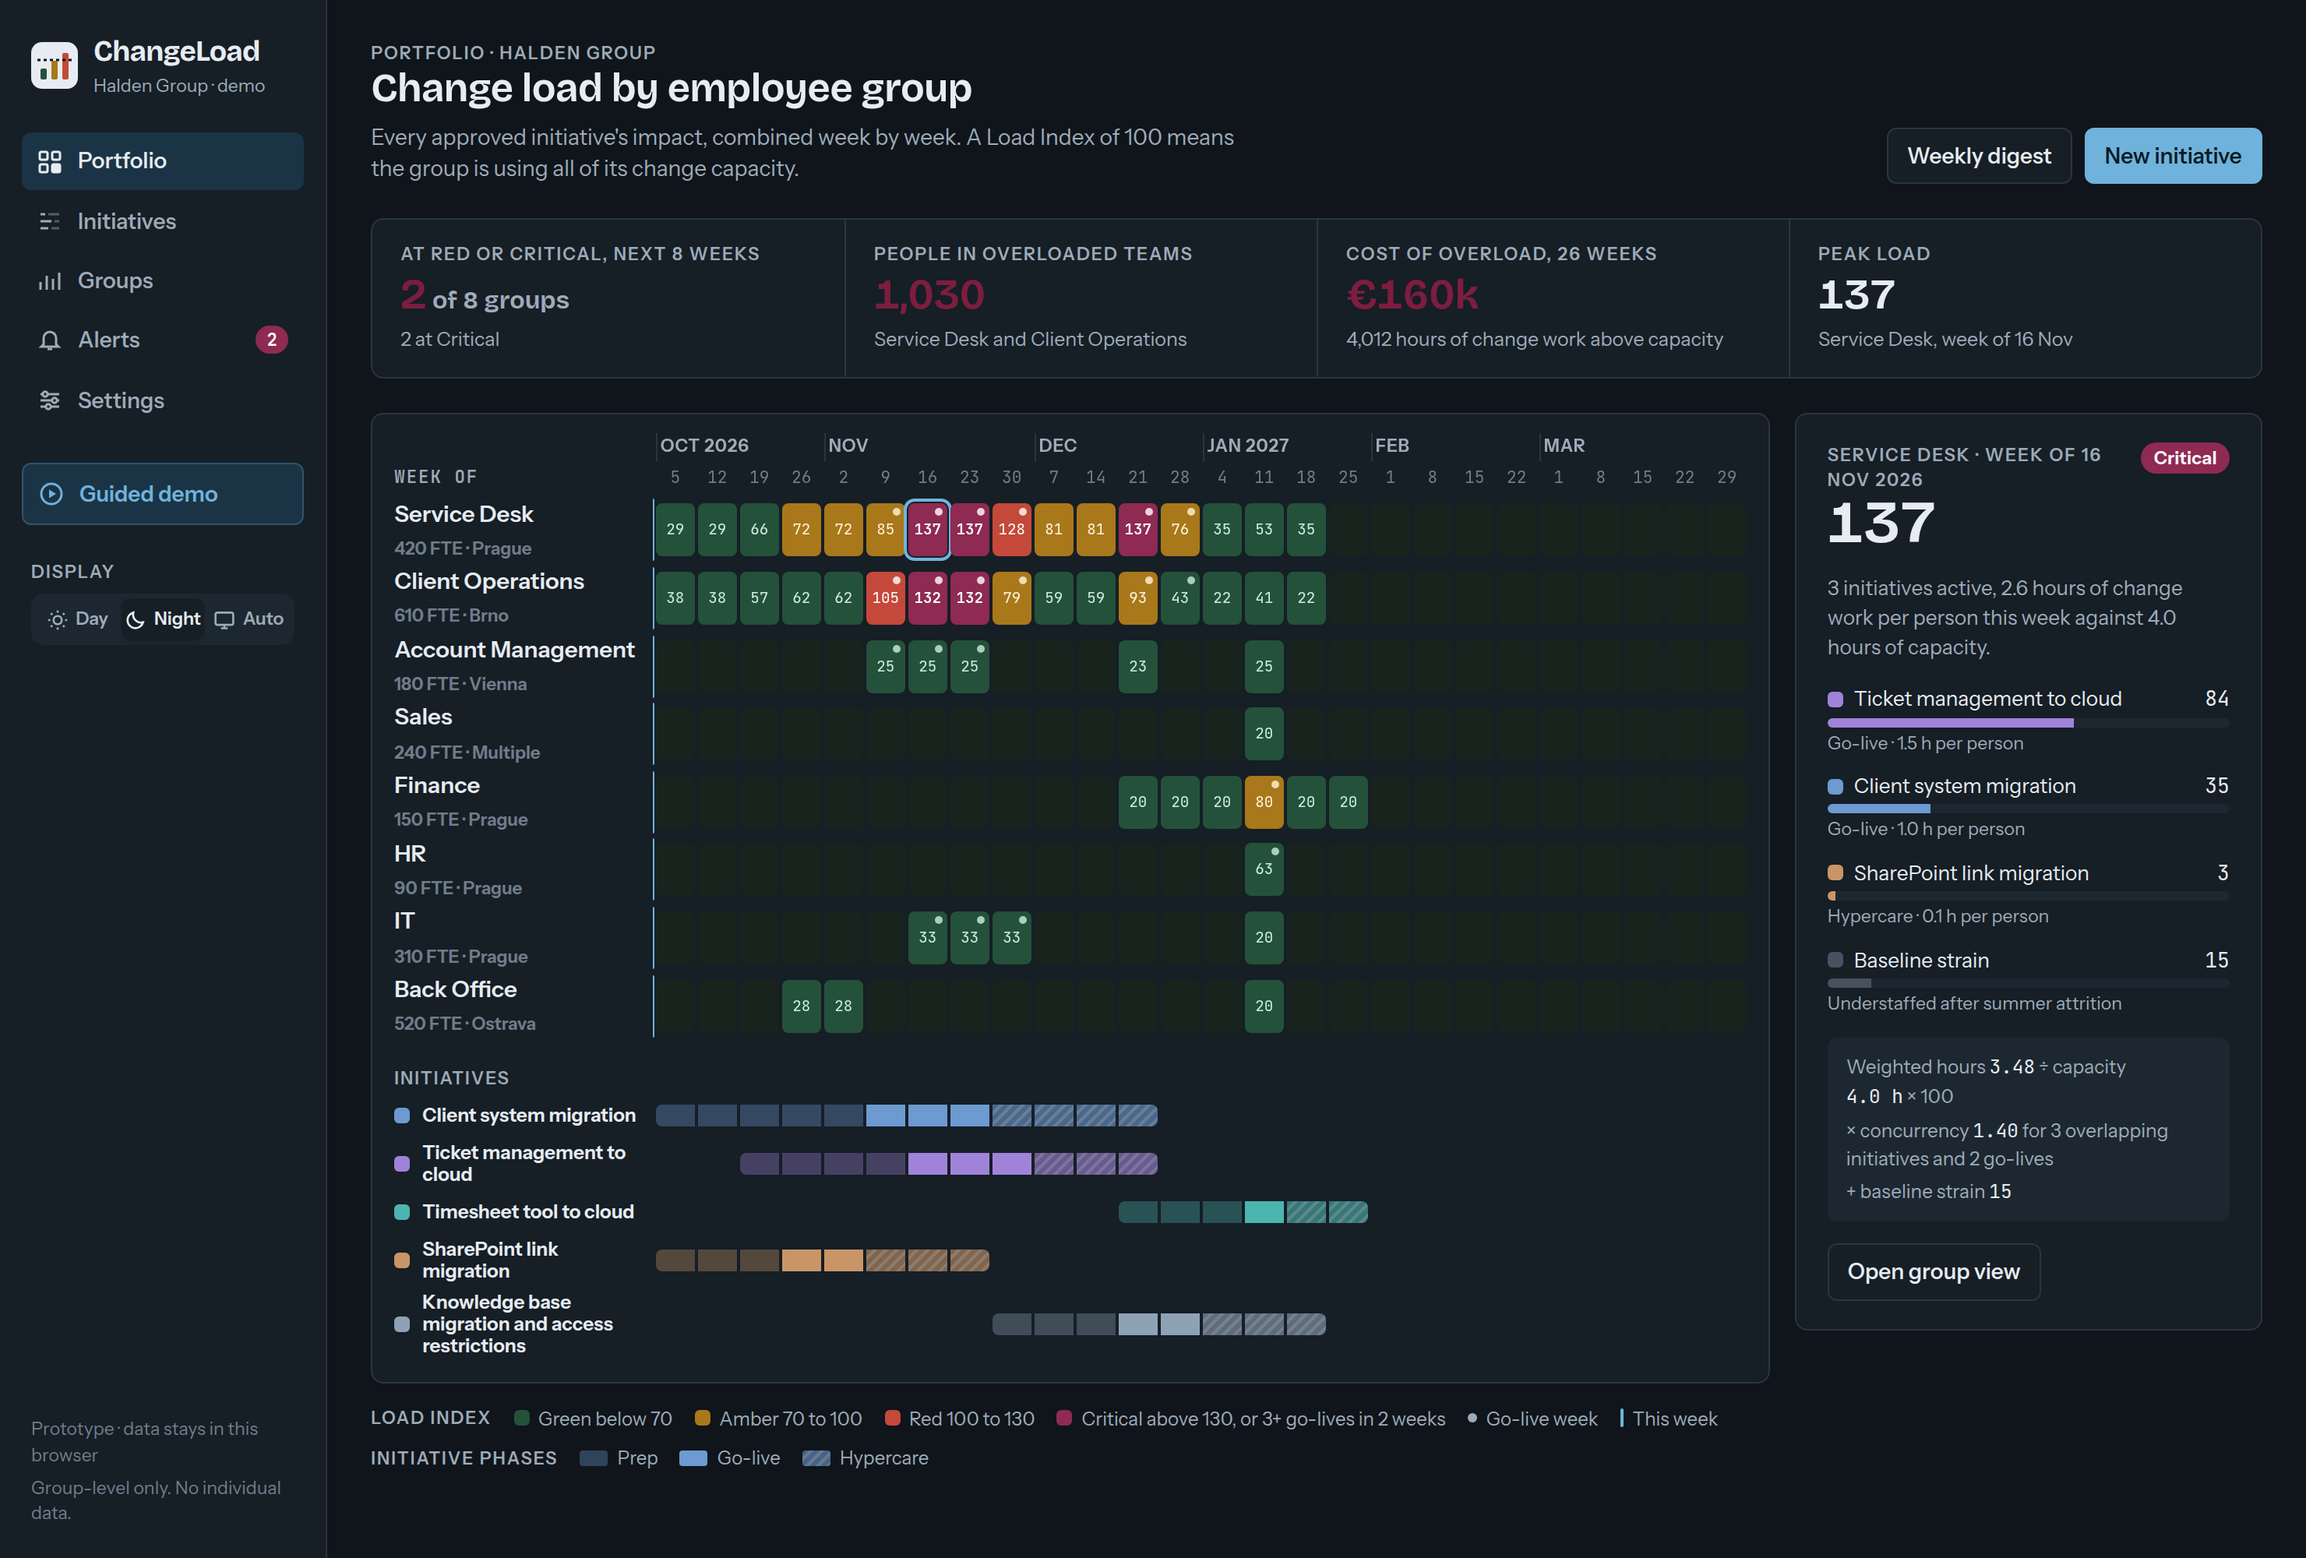
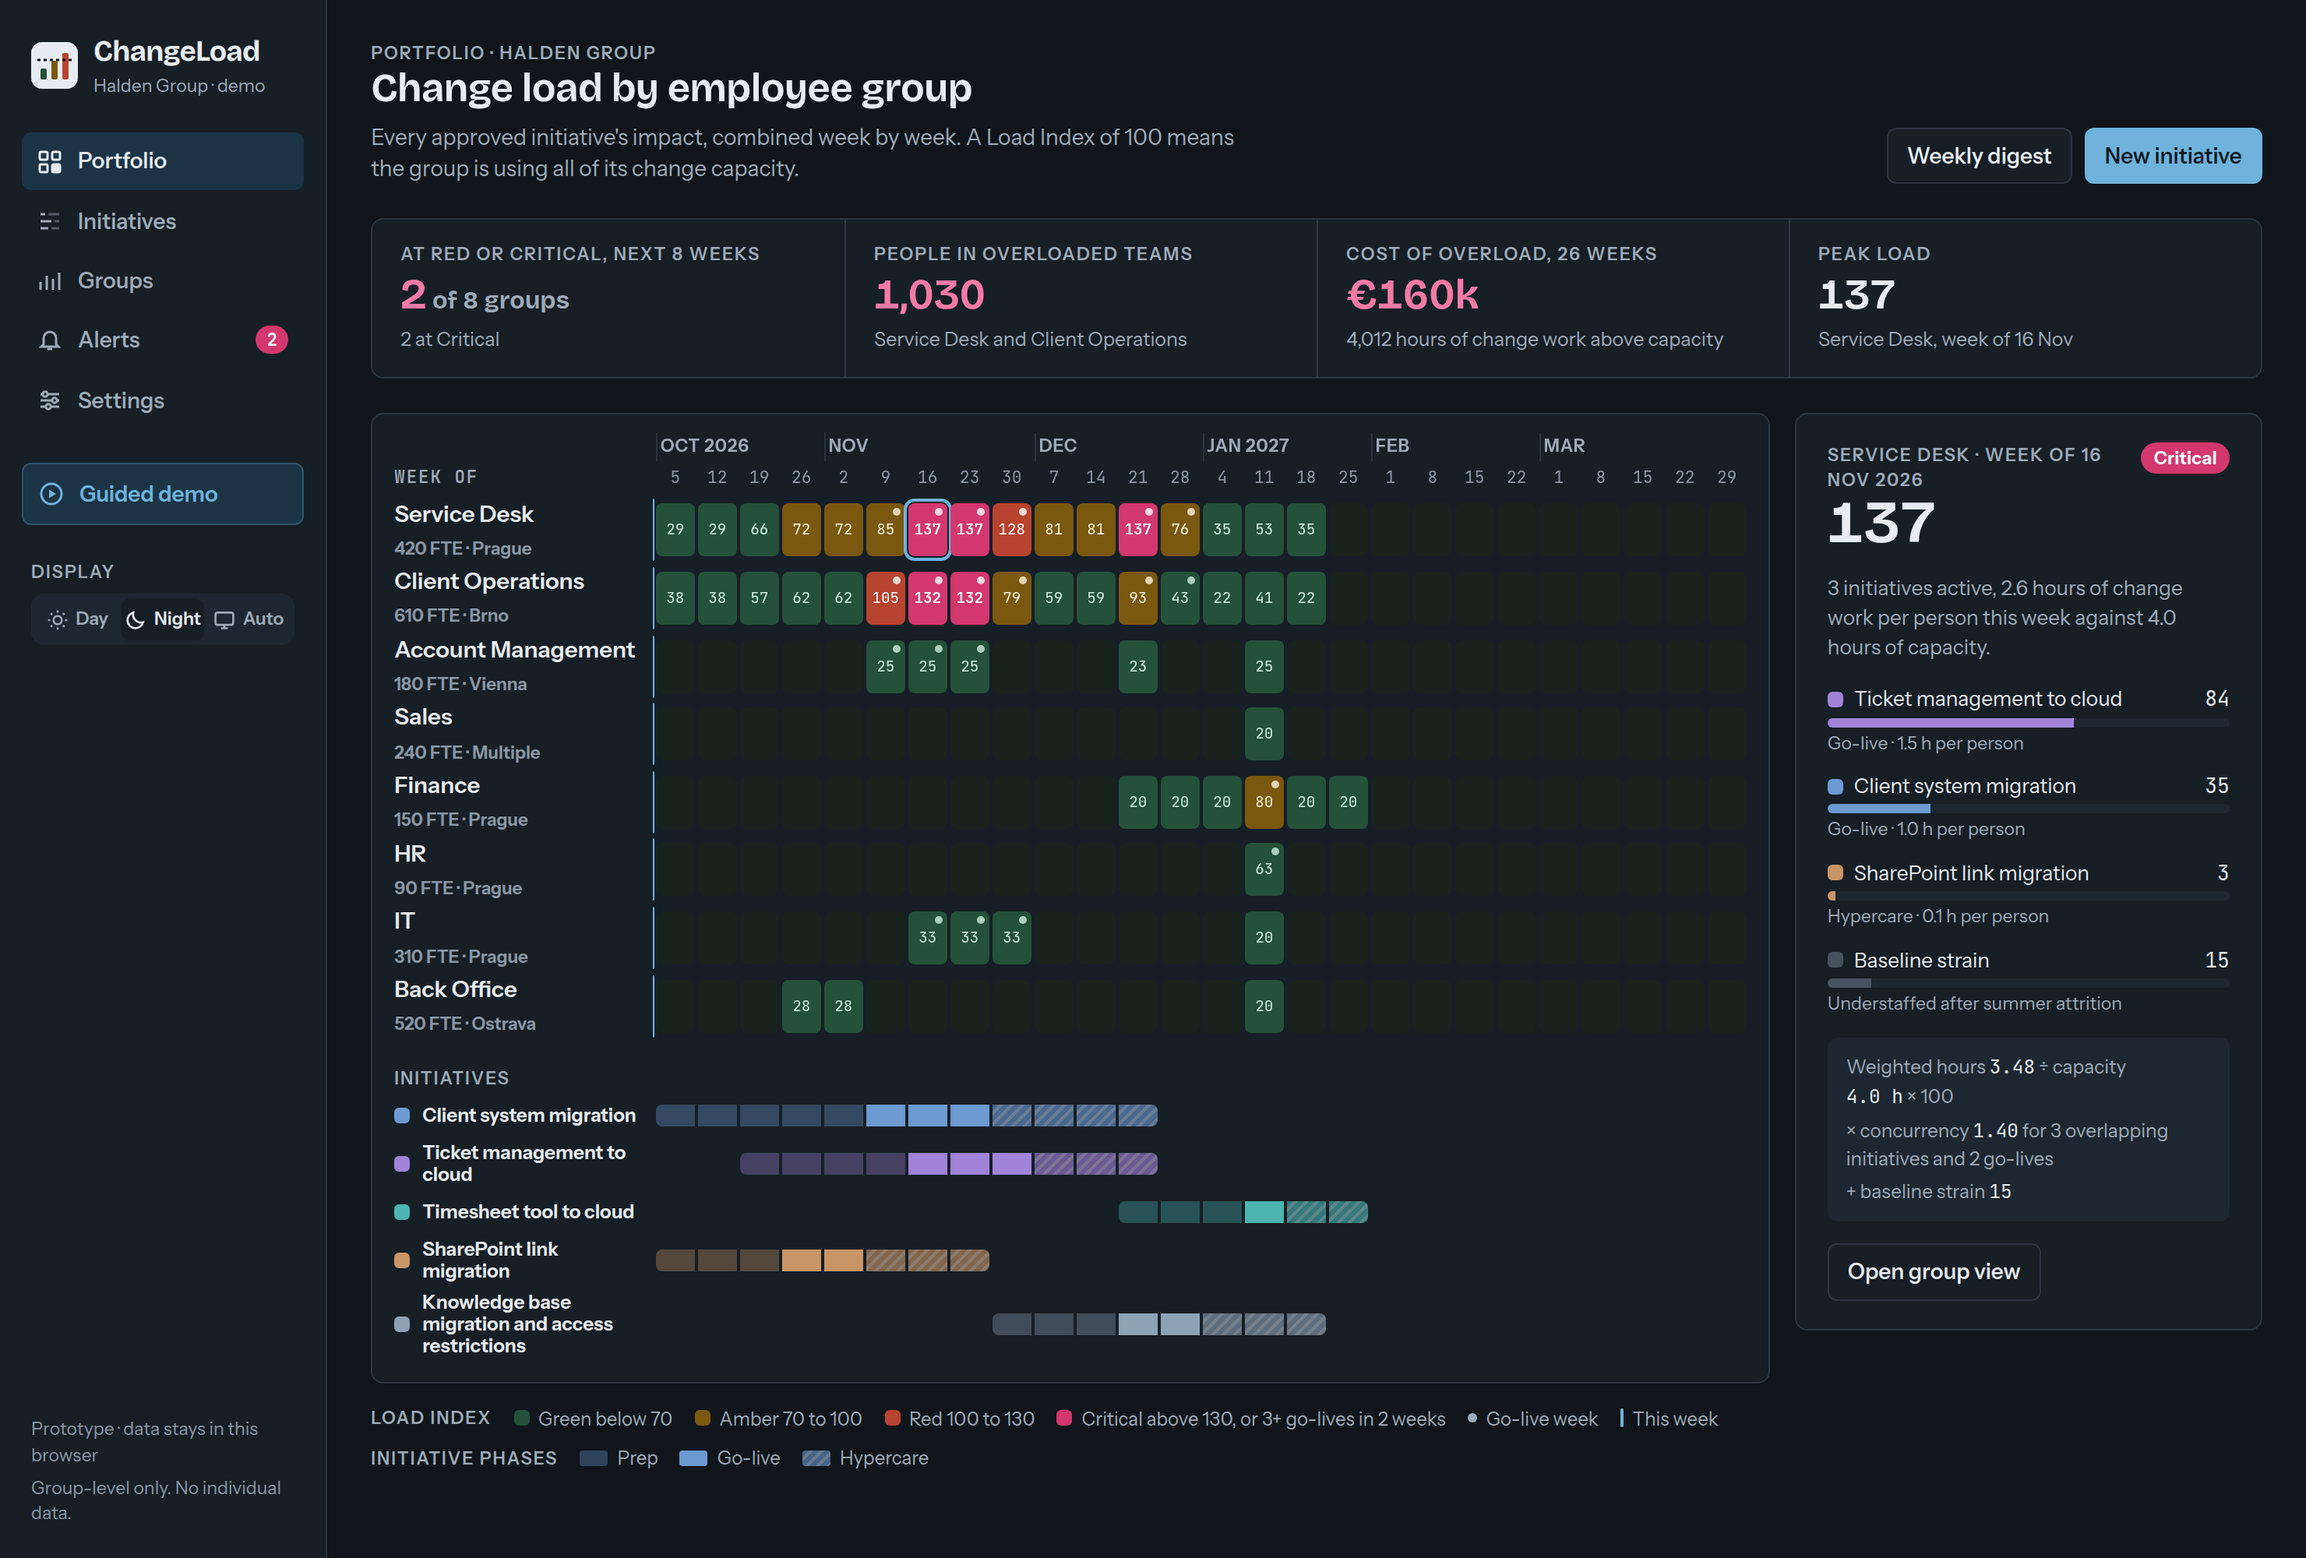
Night mode: use the audited palette when Night is chosen explicitly
The explicit data-theme="dark" block still carried the old zone colours
and lacked the zone text variables, so picking Night in the Display
switch showed amber lighter than critical and failed AA contrast. Both
dark blocks now hold the same values. Night-mode screenshot regenerated.

Claude-Session: https://claude.ai/code/session_01VJVhuwiUdsCcWErZXX9xMb

diff --git a/changeload.html b/changeload.html
@@ -53,11 +53,12 @@
     color-scheme: dark;
   }
 }
+/* Explicit Night mode: the same values as the block above. Keep the two in step. */
 :root[data-theme="dark"] {
-  --bg: #0f151b; --surface: #161e26; --sunk: #1d2731; --ink: #e6ecf1; --muted: #9eabb8; --faint: #6f7d8a; --line: #2a3541;
+  --bg: #0f151b; --surface: #161e26; --sunk: #1d2731; --ink: #e6ecf1; --muted: #9eabb8; --faint: #8a98a5; --line: #2a3541;
   --accent: #6fb3dc; --accent-ink: #0b1a24; --accent-soft: #1b3445;
-  --z-idle: #18231d; --z-green: #24513a; --z-green-ink: #cdeedb; --z-amber: #a9781a; --z-amber-ink: #fff4dc;
-  --z-red: #c4493a; --z-red-ink: #ffffff; --z-crit: #8f2a52; --z-crit-ink: #ffffff;
+  --z-idle: #18231d; --z-green: #24513a; --z-green-ink: #cdeedb; --z-green-text: #7fd3a2; --z-amber: #7a5810; --z-amber-ink: #fff4dc; --z-amber-text: #e2b45a;
+  --z-red: #b8432f; --z-red-ink: #ffffff; --z-red-text: #f0a090; --z-crit: #d2386e; --z-crit-ink: #ffffff; --z-crit-text: #f27aa6;
   --i0: #6c9ad1; --i1: #a083d8; --i2: #4cb5b0; --i3: #c99566; --i4: #8ea2b6; --i5: #d483b2; --i6: #7cbf63; --i7: #7f8fc0;
   --strain: #46525e; --shadow: 0 1px 2px rgba(0,0,0,.3), 0 6px 24px rgba(0,0,0,.3);
   color-scheme: dark;

diff --git a/src/styles.css b/src/styles.css
@@ -47,11 +47,12 @@
     color-scheme: dark;
   }
 }
+/* Explicit Night mode: the same values as the block above. Keep the two in step. */
 :root[data-theme="dark"] {
-  --bg: #0f151b; --surface: #161e26; --sunk: #1d2731; --ink: #e6ecf1; --muted: #9eabb8; --faint: #6f7d8a; --line: #2a3541;
+  --bg: #0f151b; --surface: #161e26; --sunk: #1d2731; --ink: #e6ecf1; --muted: #9eabb8; --faint: #8a98a5; --line: #2a3541;
   --accent: #6fb3dc; --accent-ink: #0b1a24; --accent-soft: #1b3445;
-  --z-idle: #18231d; --z-green: #24513a; --z-green-ink: #cdeedb; --z-amber: #a9781a; --z-amber-ink: #fff4dc;
-  --z-red: #c4493a; --z-red-ink: #ffffff; --z-crit: #8f2a52; --z-crit-ink: #ffffff;
+  --z-idle: #18231d; --z-green: #24513a; --z-green-ink: #cdeedb; --z-green-text: #7fd3a2; --z-amber: #7a5810; --z-amber-ink: #fff4dc; --z-amber-text: #e2b45a;
+  --z-red: #b8432f; --z-red-ink: #ffffff; --z-red-text: #f0a090; --z-crit: #d2386e; --z-crit-ink: #ffffff; --z-crit-text: #f27aa6;
   --i0: #6c9ad1; --i1: #a083d8; --i2: #4cb5b0; --i3: #c99566; --i4: #8ea2b6; --i5: #d483b2; --i6: #7cbf63; --i7: #7f8fc0;
   --strain: #46525e; --shadow: 0 1px 2px rgba(0,0,0,.3), 0 6px 24px rgba(0,0,0,.3);
   color-scheme: dark;
